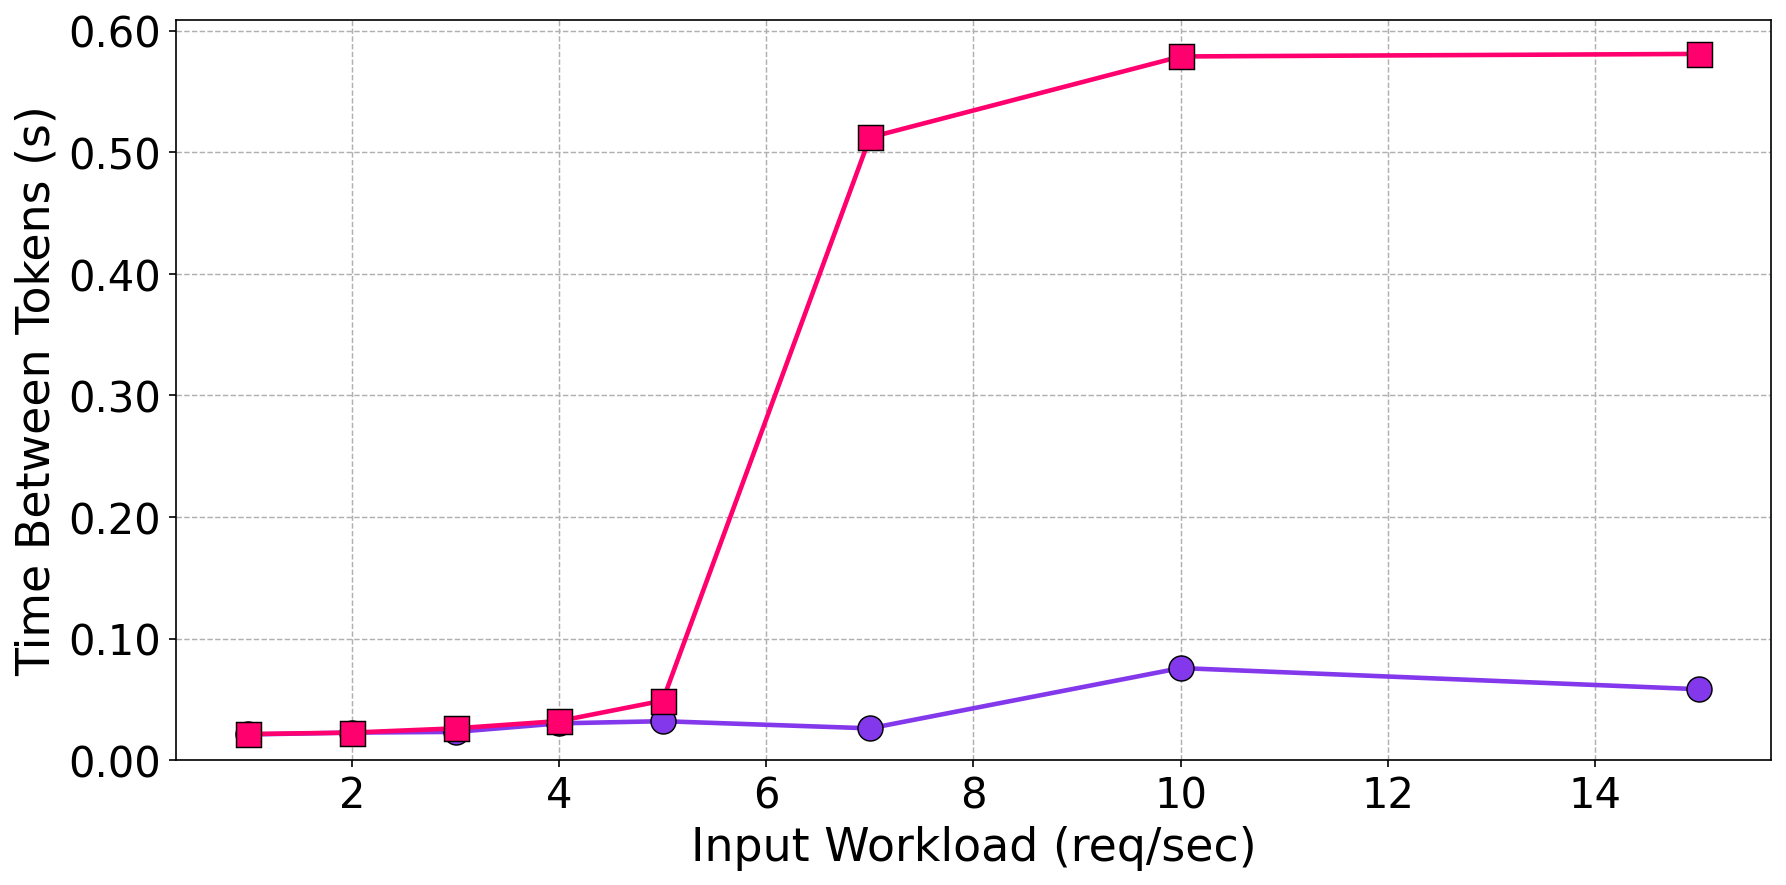
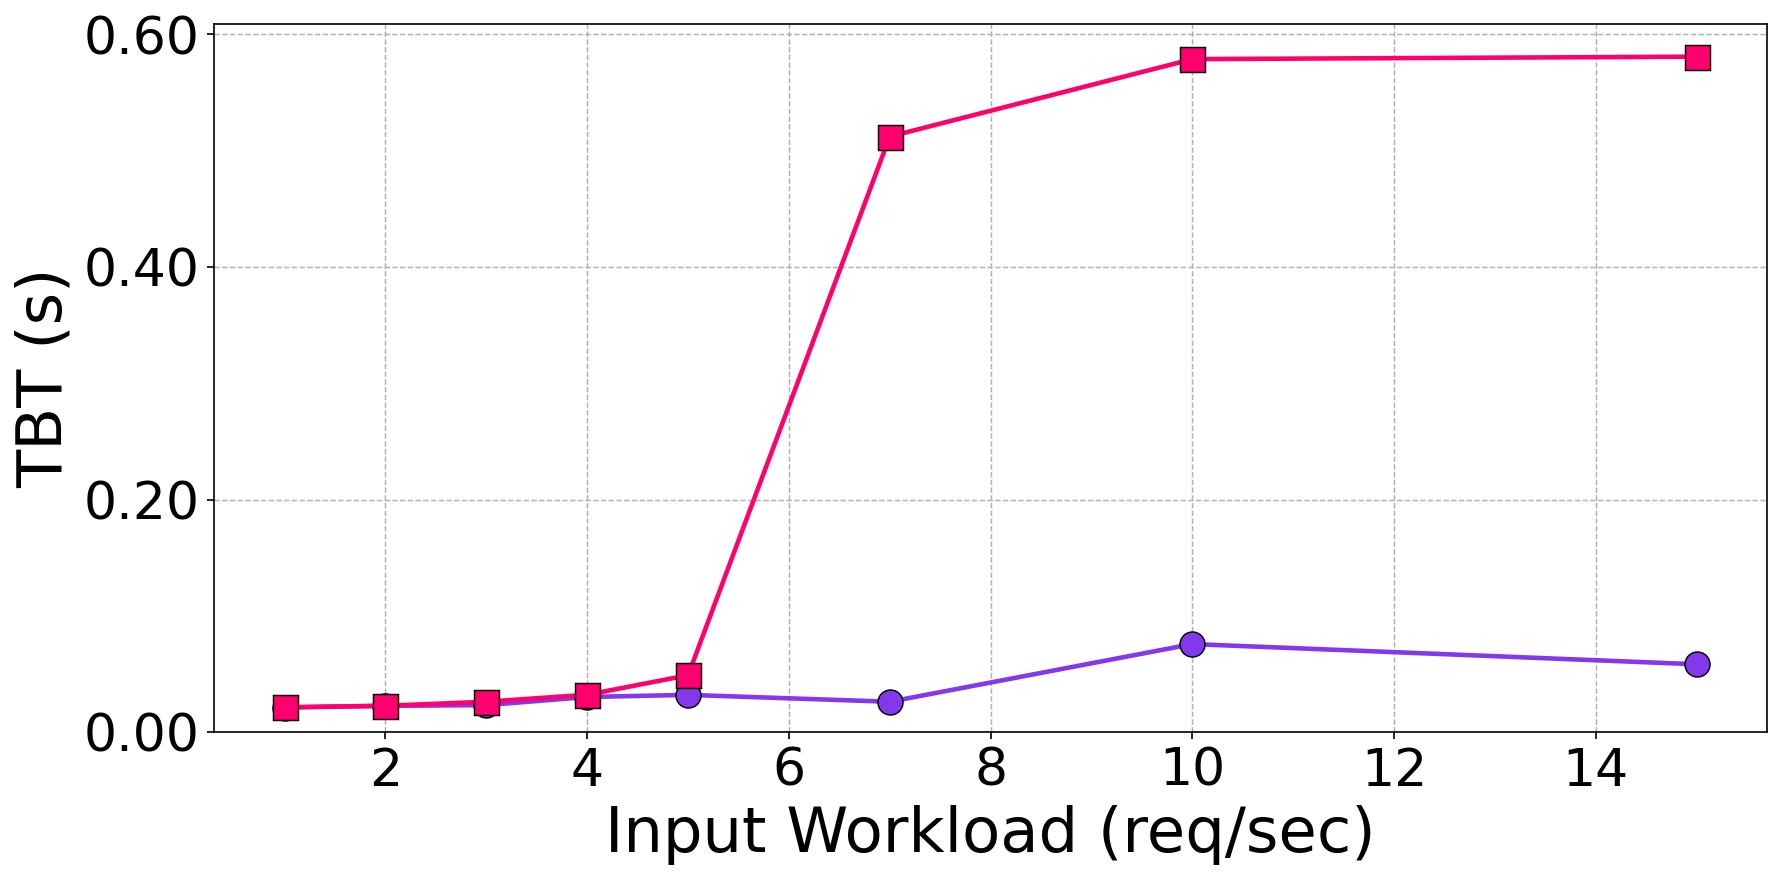
rablation

diff --git a/code/vllm/req_per_sec_logs_ablation/plot.py b/code/vllm/req_per_sec_logs_ablation/plot.py
@@ -191,10 +191,10 @@ def make_plot(metric_key, ylabel, title, outpath):
                 label=label
             )
 
-    ax.set_xlabel("Input Workload (req/sec)", fontsize=22)
-    ax.set_ylabel(ylabel, fontsize=22)
+    ax.set_xlabel("Input Workload (req/sec)", fontsize=30)
+    ax.set_ylabel(ylabel, fontsize=30)
 
-    ax.tick_params(axis="both", labelsize=20)
+    ax.tick_params(axis="both", labelsize=25)
 
     ax.yaxis.set_major_formatter(ticker.FormatStrFormatter('%.2f'))
 
@@ -234,14 +234,14 @@ make_plot(
 
 make_plot(
     "avg_batch",
-    "Avg Running Batch Size",
-    "Average Running Batch Size vs Request Rate",
+    "Avg Batch Size",
+    "Average Batch Size vs Request Rate",
     os.path.join(OUT, "avg_batch_vs_rps.png")
 )
 
 make_plot(
     "avg_diff",
-    "Time Between Tokens (s)",
+    "TBT (s)",
     "Average Consecutive Scheduler Timestamp Diff vs Request Rate",
     os.path.join(OUT, "avg_timediff_vs_rps.png")
 )
